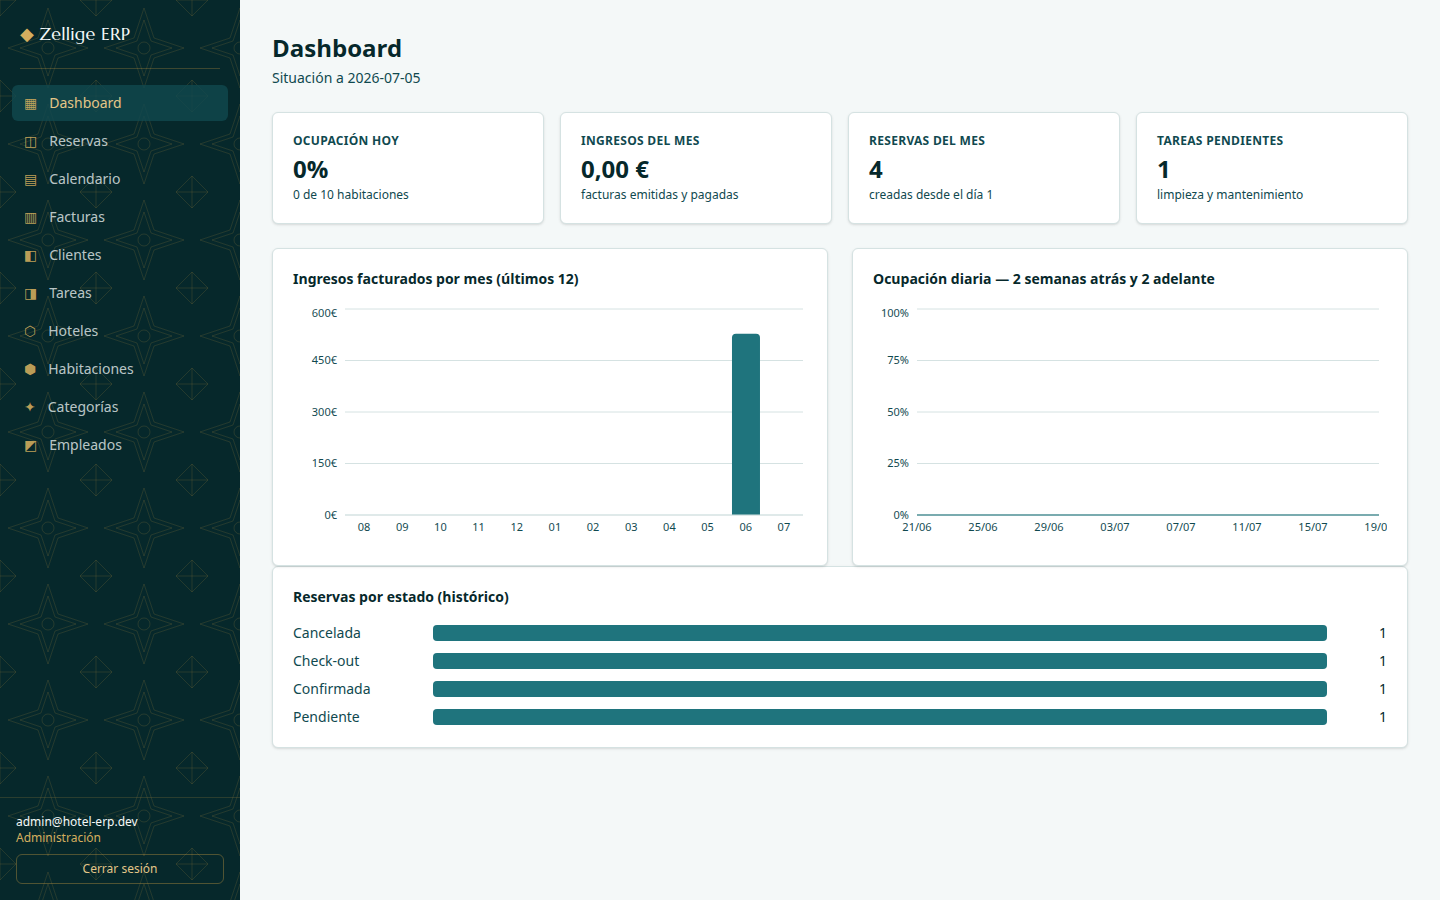
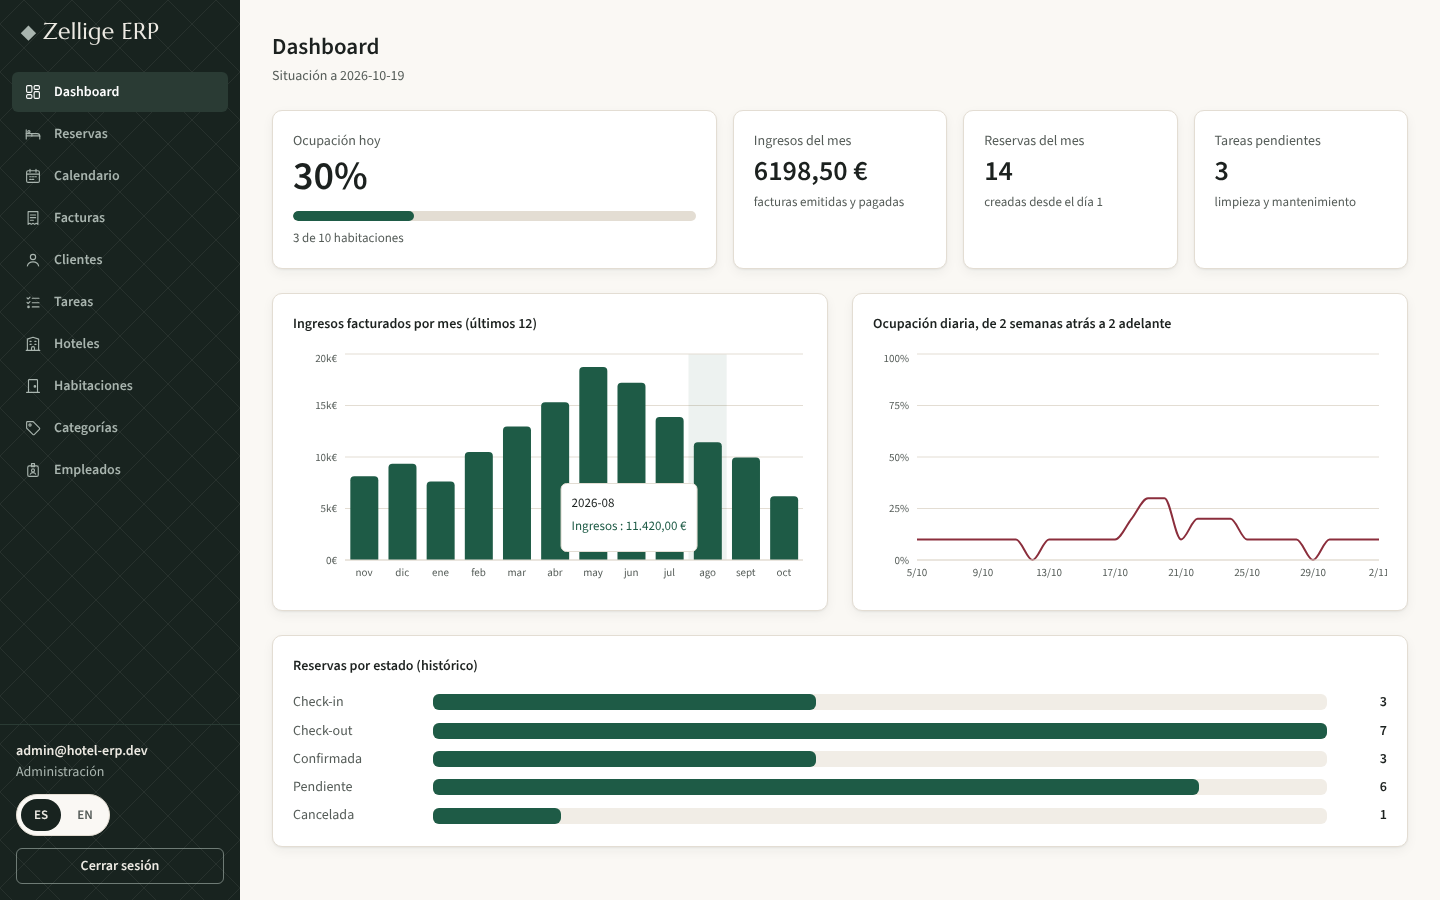
Actualiza README, DESIGN.md y las capturas sin fotos

diff --git a/docs/DESIGN.md b/docs/DESIGN.md
@@ -58,15 +58,20 @@ same everywhere: 2px `fez-700` outline with 2px offset (`noche-ink` on the sideb
 
 ## Components
 
-The grammar — the same on every screen, the same states every time.
+The grammar, the same on every screen, with the same states every time. All of them live
+in `frontend/src/components/ui/`; no page styles a button or a field by hand.
 
-- `card-tile`: white surface, 1px `cal-200` border, 10px radius, `--shadow-card`.
-- `card-tile-accent`: adds a 2px garnet top keyline. Brand moments only.
-- `btn-primary` (fez), `btn-ghost`, `btn-danger`. All: global focus ring, disabled at
-  50%, no size jumps on hover. (`btn-gold` is a temporary alias of `btn-primary`.)
-- `field-label` / `field-input` / `field-error`: 14px labels, `cal-400` borders, red
-  errors.
-- `badge` + per-status colour maps (booking, invoice, room, task, priority).
+- `Button` / `ButtonLink`: primary (fez), secondary (cal-400 border), ghost, danger
+  (error-700); 36 px or 44 px high; `loading` shows a spinner, sets `aria-busy` and
+  blocks a second submit.
+- `Field` with `Input`, `Select`, `Textarea`: label above, hint and error below, wired
+  with `aria-invalid` and `aria-describedby`. Optional fields say so in the label.
+- `DateRangeField`: two native date inputs, check-out after check-in, nights announced.
+- `Card` (`plain` / `brand` with the garnet keyline), `Modal` (native `<dialog>`, focus
+  in and back), `ConfirmDialog` (replaces `window.confirm`), `Toast` (status / alert).
+- `DataTable`: hidden caption, tabular figures, 48 px rows, a discreet "Updating…" while
+  refetching, scroll hint only when it overflows.
+- `StatusBadge` / `Badge`, `FilterChips`, `EmptyState`, `ErrorNote` (with retry).
 - `.reticula`, `.reticula-noche`, `.separador`.
 
 ## Layout

diff --git a/README.md b/README.md
@@ -68,8 +68,9 @@ Demo accounts (seeded):
 ## Tests
 
 ```bash
-cd backend && ./mvnw verify          # 28 tests, incl. Testcontainers (real Postgres)
-cd frontend && npm test -- --run     # Vitest unit tests
+cd backend && ./mvnw verify          # 31 tests, incl. Testcontainers (real Postgres)
+cd frontend && npm test -- --run     # Vitest: components, booking flow, query hooks
+cd frontend && npm run test:a11y     # Playwright + axe on 18 screens at 390 and 1440 px
 ```
 
 CI runs both on every push (`.github/workflows/ci.yml`).
